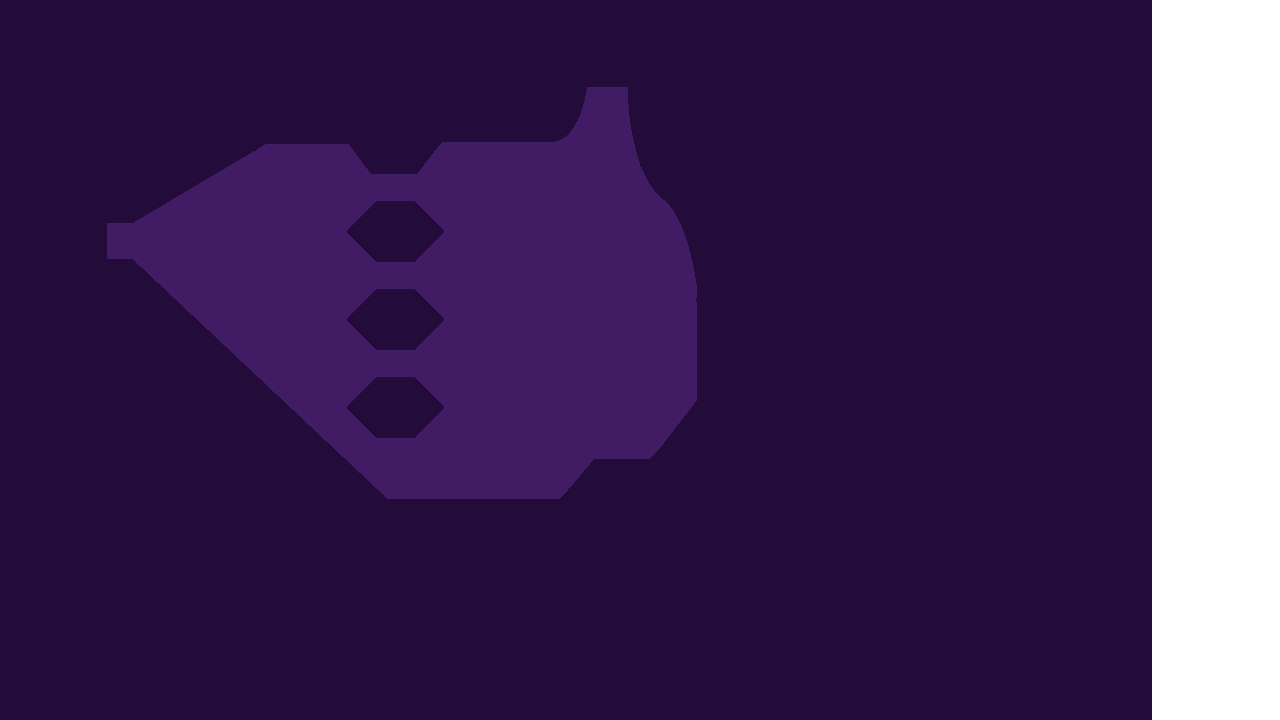
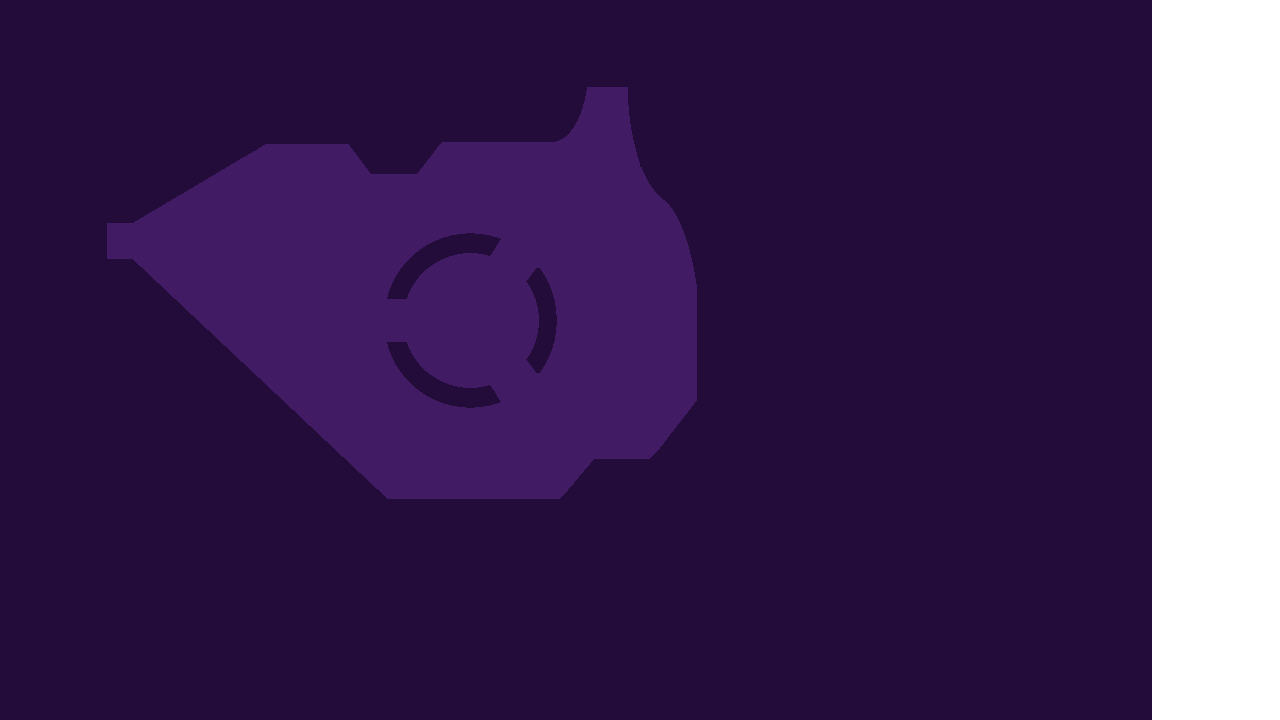
better under layer shapes, update graphics

Changed region(s): [[0.25, 0.275, 0.4062, 0.6111], [0.4062, 0.3667, 0.4375, 0.5194]]

diff --git a/games/pinball/source/layer.h b/games/pinball/source/layer.h
@@ -23,9 +23,9 @@ class Layer {
 
         // Underlayer
         vector<float> m_underOuter = {637.6, 10.6, 633.8, 12.0, 630.1, 14.2, 626.5, 16.3, 619.8, 21.6, 613.2, 26.9, 606.7, 35.6, 600.1, 44.3, 595.6, 53.4, 591.1, 62.5, 587.6, 73.0, 584.1, 83.5, 581.6, 94.5, 579.2, 105.5, 576.7, 112.1, 574.2, 118.7, 571.5, 123.1, 568.8, 127.5, 565.6, 130.8, 562.5, 134.2, 559.5, 135.8, 556.5, 137.5, 498.0, 138.0, 439.5, 138.5, 427.4, 154.0, 415.3, 169.5, 394.2, 169.8, 373.0, 170.0, 361.8, 155.0, 350.5, 140.0, 307.7, 140.0, 264.8, 140.0, 197.4, 180.0, 130.1, 220.0, 117.0, 220.0, 104.0, 220.0, 104.0, 241.0, 104.0, 262.0, 116.4, 262.0, 128.9, 262.0, 133.2, 266.4, 137.5, 270.8, 240.0, 367.0, 342.5, 463.2, 356.0, 476.0, 369.5, 488.7, 377.2, 495.8, 385.0, 503.0, 473.8, 503.0, 562.7, 503.0, 579.6, 483.0, 596.5, 463.0, 624.6, 463.0, 652.8, 463.0, 658.9, 456.1, 665.0, 449.2, 683.0, 424.8, 701.1, 401.5, 700.8, 340.5, 700.5, 279.5, 697.2, 264.5, 693.9, 249.5, 689.8, 237.5, 685.8, 225.5, 681.2, 216.5, 676.6, 207.5, 668.1, 199.0, 659.7, 190.5, 656.3, 186.1, 652.8, 181.6, 649.4, 174.7, 645.9, 167.8, 642.5, 157.7, 639.1, 147.5, 636.6, 135.0, 634.1, 122.5, 633.1, 111.5, 632.0, 100.5, 633.0, 91.0, 634.0, 81.5, 635.1, 76.0, 636.1, 70.5, 638.7, 62.7, 641.2, 55.0, 644.5, 51.5, 647.7, 48.0, 672.9, 48.0, 698.0, 48.0, 698.0, 46.5, 698.0, 45.0, 671.9, 45.0, 645.9, 45.0, 643.9, 46.0, 642.0, 47.1, 639.5, 51.0, 637.0, 55.0, 634.5, 62.3, 632.1, 69.7, 630.4, 79.6, 628.8, 89.5, 628.8, 101.0, 628.8, 112.5, 630.5, 123.4, 632.1, 134.3, 635.7, 147.9, 639.2, 161.5, 639.7, 164.0, 640.3, 166.5, 640.9, 167.0, 641.5, 167.5, 646.5, 177.5, 651.4, 187.5, 662.0, 198.1, 672.5, 208.6, 677.2, 217.6, 681.8, 226.5, 684.9, 235.4, 688.0, 244.2, 690.5, 253.9, 692.9, 263.5, 694.9, 274.9, 697.0, 286.3, 697.0, 343.4, 696.9, 400.5, 677.9, 425.0, 658.9, 449.5, 654.2, 454.2, 649.6, 459.0, 621.9, 459.0, 594.2, 459.0, 581.4, 474.2, 568.5, 489.5, 564.1, 494.3, 559.7, 499.0, 473.6, 499.0, 387.5, 499.0, 260.0, 379.0, 132.5, 259.0, 119.8, 259.0, 107.0, 259.0, 107.0, 241.0, 107.0, 223.0, 119.9, 223.0, 132.8, 223.0, 193.5, 187.0, 254.1, 151.0, 260.1, 147.5, 265.5, 144.0, 307.0, 144.0, 348.5, 144.0, 359.8, 159.0, 371.0, 174.0, 394.0, 174.0, 416.9, 174.0, 427.1, 160.7, 437.4, 147.5, 439.9, 144.7, 442.4, 142.0, 498.9, 142.0, 555.5, 142.0, 560.0, 139.9, 564.5, 137.9, 569.0, 133.1, 573.5, 128.3, 577.2, 120.9, 580.8, 113.5, 582.9, 106.0, 584.9, 98.5, 587.6, 87.5, 590.2, 76.5, 594.1, 66.6, 598.1, 56.6, 601.2, 51.1, 604.3, 45.5, 609.1, 38.9, 614.0, 32.3, 618.9, 27.7, 623.9, 23.0, 630.1, 19.0, 636.3, 15.0, 638.1, 15.0, 639.9, 15.0, 640.5, 14.0, 641.1, 13.0, 669.6, 13.0, 698.0, 13.0, 698.0, 11.0, 698.0, 9.0, 669.8, 9.1, 641.5, 9.1, 637.6, 10.6};
-        vector<float> m_under1 = {361.7, 215.8, 347.0, 230.5, 347.0, 231.5, 347.0, 232.5, 361.8, 247.3, 376.5, 262.0, 395.5, 262.0, 414.5, 262.0, 429.2, 247.3, 444.0, 232.5, 444.0, 231.5, 444.0, 230.5, 429.2, 215.7, 414.5, 201.0, 395.5, 201.0, 376.5, 201.0, 361.7, 215.8};
-        vector<float> m_under2 = {361.7, 303.8, 347.0, 318.5, 347.0, 319.5, 347.0, 320.5, 361.8, 335.3, 376.5, 350.0, 395.5, 350.0, 414.5, 350.0, 429.2, 335.3, 444.0, 320.5, 444.0, 319.5, 444.0, 318.5, 429.2, 303.7, 414.5, 289.0, 395.5, 289.0, 376.5, 289.0, 361.7, 303.8};
-        vector<float> m_under3 = {361.7, 391.8, 347.0, 406.5, 347.0, 407.5, 347.0, 408.5, 361.8, 423.3, 376.5, 438.0, 395.5, 438.0, 414.5, 438.0, 429.2, 423.3, 444.0, 408.5, 444.0, 407.5, 444.0, 406.5, 429.2, 391.7, 414.5, 377.0, 395.5, 377.0, 376.5, 377.0, 361.7, 391.8};
+        vector<float> m_under1 = {531.4, 274.8, 526.3, 281.6, 527.7, 283.6, 529.2, 285.5, 532.5, 292.5, 535.8, 299.5, 537.4, 307.2, 539.0, 314.9, 539.0, 320.5, 539.0, 326.1, 537.4, 333.8, 535.8, 341.5, 532.5, 348.5, 529.2, 355.5, 527.7, 357.4, 526.3, 359.4, 531.4, 366.2, 536.4, 373.0, 538.1, 373.0, 539.7, 373.0, 542.2, 369.2, 544.8, 365.4, 547.4, 360.2, 550.0, 355.1, 552.4, 347.6, 554.9, 340.1, 556.0, 330.2, 557.2, 320.3, 556.0, 310.5, 554.8, 300.8, 552.4, 293.3, 550.0, 285.9, 547.4, 280.8, 544.8, 275.6, 542.2, 271.8, 539.7, 268.0, 538.1, 268.0, 536.4, 268.0, 531.4, 274.8};
+        vector<float> m_under2 = {460.0, 234.1, 453.5, 234.9, 447.5, 236.6, 441.5, 238.2, 434.2, 241.6, 426.8, 245.0, 420.7, 249.4, 414.5, 253.8, 408.4, 260.2, 402.2, 266.6, 398.2, 272.8, 394.2, 279.1, 391.2, 286.3, 388.3, 293.5, 387.6, 296.2, 387.0, 299.0, 396.8, 299.0, 406.6, 299.0, 409.3, 292.7, 412.0, 286.5, 417.0, 279.8, 421.9, 273.1, 427.7, 268.5, 433.5, 263.9, 441.5, 260.0, 449.5, 256.1, 457.2, 254.6, 464.9, 253.0, 470.7, 253.0, 476.5, 253.0, 483.0, 254.5, 489.5, 255.9, 491.8, 253.0, 494.1, 250.2, 497.5, 244.6, 500.8, 239.0, 500.2, 238.6, 499.5, 238.2, 494.0, 236.7, 488.5, 235.1, 480.0, 234.1, 471.6, 233.0, 469.0, 233.1, 466.5, 233.3, 460.0, 234.1};
+        vector<float> m_under3 = {387.6, 344.7, 388.3, 347.5, 391.2, 354.7, 394.2, 361.9, 398.2, 368.2, 402.2, 374.4, 408.4, 380.8, 414.5, 387.2, 420.5, 391.5, 426.5, 395.8, 431.7, 398.4, 436.9, 401.0, 444.3, 403.4, 451.8, 405.8, 461.2, 407.0, 470.7, 408.1, 479.6, 407.0, 488.5, 405.9, 494.0, 404.3, 499.5, 402.8, 500.2, 402.4, 500.8, 402.0, 497.5, 396.4, 494.1, 390.8, 491.8, 388.0, 489.5, 385.1, 483.0, 386.5, 476.5, 388.0, 470.7, 388.0, 464.9, 388.0, 457.2, 386.4, 449.5, 384.9, 441.5, 381.0, 433.5, 377.1, 427.7, 372.5, 421.9, 367.9, 417.0, 361.2, 412.0, 354.5, 409.3, 348.2, 406.6, 342.0, 396.8, 342.0, 387.0, 342.0, 387.6, 344.7};
         vector<vector<float>> m_underLayer = {
             m_underOuter, m_under1, m_under2, m_under3
         };

diff --git a/games/pinball/source/table.cpp b/games/pinball/source/table.cpp
@@ -100,14 +100,8 @@ Table::Table(C2DRenderer* renderer, b2World& world) :
     m_bumpers.push_back(bumper3);
 
     // Circle bumpers on underlayer
-    Bumper* bumper4 = new Bumper(renderer, world, 0, -1, 5.6, 2.3);
+    Bumper* bumper4 = new Bumper(renderer, world, 0, -1, 4.7, 3.2);
     m_bumpers.push_back(bumper4);
-
-    Bumper* bumper5 = new Bumper(renderer, world, 0, -1, 5.6, 3.6);
-    m_bumpers.push_back(bumper5);
-
-    Bumper* bumper6 = new Bumper(renderer, world, 0, -1, 2.3, 2.4);
-    m_bumpers.push_back(bumper6);
 
     // Bumpers for return area bumpers
     Bumper* bumperLeftUpper = new Bumper(renderer, world, 2, 0);
